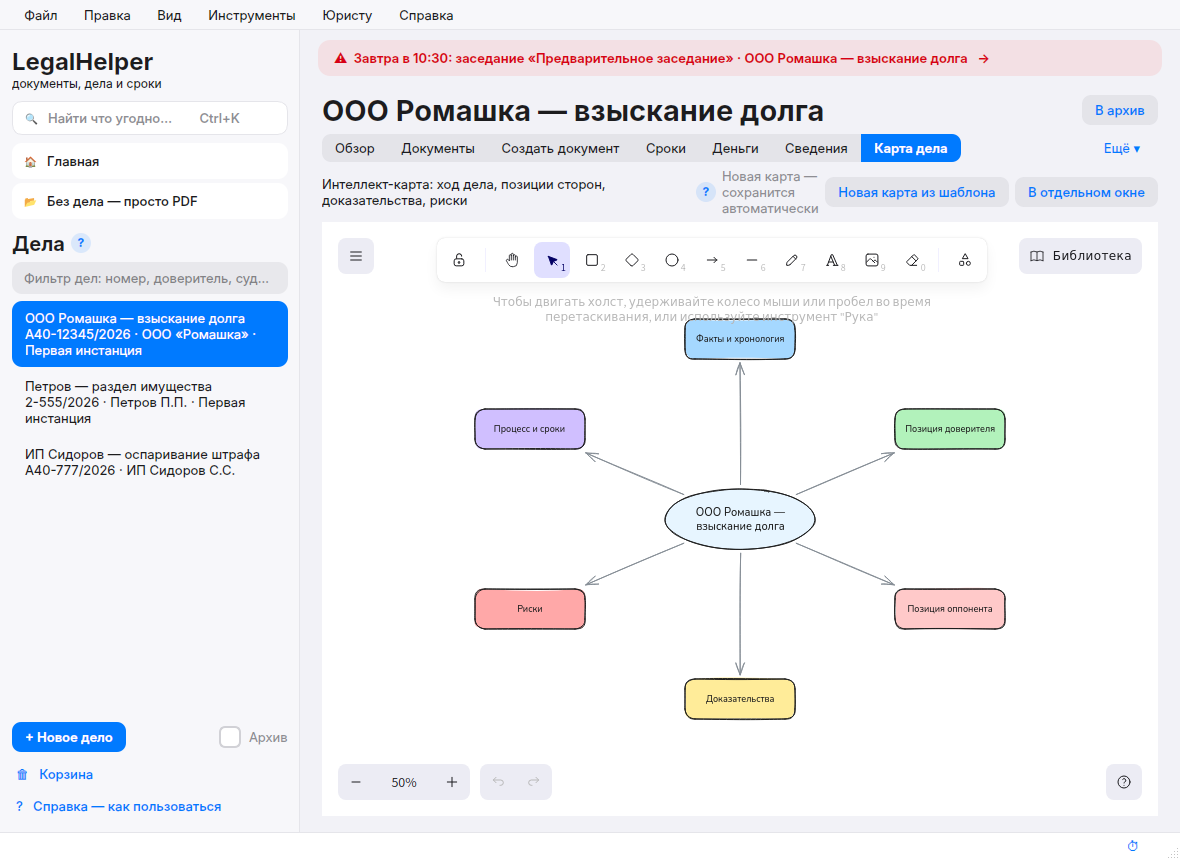
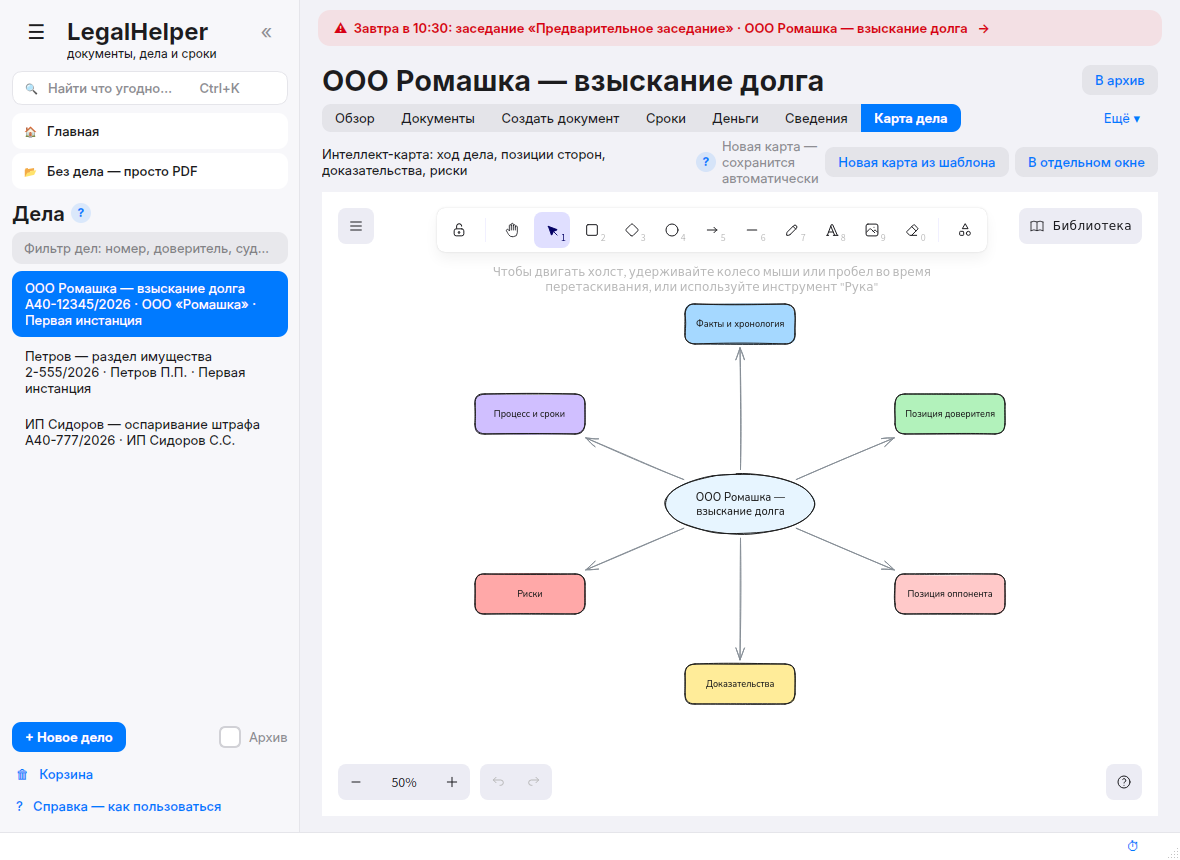
3.2: hamburger menu instead of the menu bar, tinted title bar
- The QMenuBar is hidden; its menus live in a ☰ button next to the app
  name (and in the collapsed rail). Every menu action with a shortcut
  is added to the window so shortcuts keep working without the bar.
- On Windows 11 the native caption is tinted via DwmSetWindowAttribute
  (caption, text and border colour from the theme, immersive dark mode
  for dark themes), refreshed on theme change. The frame stays native,
  so snap layouts, shadow and resizing are unchanged.
- Help, tutorial and messages refer to menu items as '☰ → Файл → …'.

Claude-Session: https://claude.ai/code/session_014Lpmwy2eSfMPczEubKa7ik

diff --git a/pdf_master.py b/pdf_master.py
@@ -42,7 +42,7 @@ import palette
 import word_editor as WE
 
 APP_NAME = "LegalHelper"
-APP_VERSION = "3.1.2"
+APP_VERSION = "3.2"
 DEV_EMAIL = "axis.juris@bk.ru"
 DEV_TELEGRAM = "axis_juris"
 CLOCK_OFFSET = 0.0          # поправка к часам компьютера по точному времени, сек (см. timecheck.py)
@@ -2053,6 +2053,8 @@ class MainWindow(QMainWindow):
         bcol.setSpacing(0)
         bcol.addWidget(brand)
         bcol.addWidget(sub)
+        bh.addWidget(self._build_app_menu_button(), 0, Qt.AlignTop)
+        bh.addSpacing(6)
         bh.addLayout(bcol, 1)
         b_fold = QToolButton()
         b_fold.setText("«")
@@ -2322,6 +2324,7 @@ class MainWindow(QMainWindow):
     def refresh_theme(self):
         """Перерисовать миниатюры (подписи номеров рисуются цветом темы)."""
         self.theme_icons()
+        self.tint_title_bar()
         if hasattr(self, "help_page"):
             self.help_page.refresh_theme()
         for i in range(self.tree.topLevelItemCount()):
@@ -2553,7 +2556,7 @@ class MainWindow(QMainWindow):
             box.setText("<b>Не удалось скачать обновление.</b>")
             box.setInformativeText(
                 "Похоже, GitHub сейчас отвечает медленно или соединение прерывается. Можно повторить или скачать "
-                "архив в браузере: сохраните его, затем «Справка → Установить обновление из архива…».")
+                "архив в браузере: сохраните его, затем «☰ → Справка → Установить обновление из архива…».")
             box.setDetailedText(err or "")
             again = box.addButton("Повторить", QMessageBox.AcceptRole)
             web = box.addButton("Скачать в браузере", QMessageBox.ActionRole)
@@ -3613,8 +3616,8 @@ class MainWindow(QMainWindow):
                 d.exec()
         else:
             QMessageBox.warning(self, APP_NAME, "Не получилось отправить дело на телефон. Проверьте, что программа "
-                                "«Яндекс Диск» установлена и вы в неё вошли («Файл → 📱 Дела на телефоне»). "
-                                "Подробности — «Справка → Журнал ошибок».")
+                                "«Яндекс Диск» установлена и вы в неё вошли («☰ → Файл → 📱 Дела на телефоне»). "
+                                "Подробности — «☰ → Справка → Журнал ошибок».")
 
     def restore_backup(self, path):
         if not self.save_all_ws():
@@ -3663,7 +3666,7 @@ class MainWindow(QMainWindow):
         body = quote(f"\n\n—\n{APP_NAME} {APP_VERSION}, {sys.platform}")
         row("✉", DEV_EMAIL, f"mailto:{DEV_EMAIL}?subject={quote(APP_NAME + ' ' + APP_VERSION)}&body={body}", DEV_EMAIL)
         row("✈", f"Telegram @{DEV_TELEGRAM}", f"https://t.me/{DEV_TELEGRAM}", f"@{DEV_TELEGRAM}")
-        hint = QLabel("Журнал ошибок для письма: «Справка → Журнал ошибок → Скопировать последние ошибки».")
+        hint = QLabel("Журнал ошибок для письма: «☰ → Справка → Журнал ошибок → Скопировать последние ошибки».")
         hint.setObjectName("hint")
         hint.setWordWrap(True)
         v.addWidget(hint)
@@ -4772,6 +4775,63 @@ class MainWindow(QMainWindow):
     def toggle_nav(self):
         self.set_sidebar(not self.side.isVisible() or self.side.maximumWidth() < 300)
 
+    def _build_app_menu_button(self):
+        """Вместо строки меню «Файл · Правка · Вид…» (вид программы из 2000-х) — одна кнопка ☰.
+        Пункты те же; их горячие клавиши работают и без видимой строки меню."""
+        mb = self.menuBar()
+        self.app_menu = QMenu(self)
+        for a in mb.actions():
+            if a.menu():
+                self.app_menu.addMenu(a.menu())
+
+        def walk(menu):
+            for a in menu.actions():
+                if a.menu():
+                    walk(a.menu())
+                elif not a.shortcut().isEmpty():
+                    self.addAction(a)               # иначе сочетания клавиш погаснут вместе со строкой меню
+        walk(self.app_menu)
+        mb.hide()
+        b = QToolButton()
+        b.setText("☰")
+        b.setObjectName("appmenu")
+        b.setCursor(Qt.PointingHandCursor)
+        b.setToolTip("Меню: файл, правка, вид, инструменты, «Юристу», справка")
+        b.setMenu(self.app_menu)
+        b.setPopupMode(QToolButton.InstantPopup)
+        self.app_menu_btn = b
+        return b
+
+    def tint_title_bar(self):
+        """Windows 11: полоса заголовка окна — цвета программы (как у Obsidian), в тёмной теме — тёмная.
+        Окно остаётся «родным»: прилипание к краям экрана, тень и меню кнопки «□» работают как обычно."""
+        if not C.IS_WIN:
+            return
+        try:
+            import ctypes
+            from ctypes import wintypes
+            hwnd = wintypes.HWND(int(self.winId()))
+            dwm = ctypes.windll.dwmapi
+
+            def setattr_(attr, value):
+                v = ctypes.c_int(value)
+                dwm.DwmSetWindowAttribute(hwnd, attr, ctypes.byref(v), ctypes.sizeof(v))
+
+            def colorref(hexcol):
+                c = QColor(hexcol)
+                return c.red() | (c.green() << 8) | (c.blue() << 16)
+            dark = T.get("name") == "dark" or QColor(T["side"]).lightness() < 128
+            setattr_(20, 1 if dark else 0)          # DWMWA_USE_IMMERSIVE_DARK_MODE
+            setattr_(35, colorref(T["side"]))       # DWMWA_CAPTION_COLOR — как левая панель
+            setattr_(36, colorref(T["text"]))       # DWMWA_TEXT_COLOR
+            setattr_(34, colorref(T["side"]))       # DWMWA_BORDER_COLOR
+        except Exception as e:
+            log_error("Цвет заголовка окна", e)
+
+    def showEvent(self, e):
+        super().showEvent(e)
+        QTimer.singleShot(0, self.tint_title_bar)
+
     def _build_rail(self):
         """Свёрнутая левая панель: узкая полоска со значками самых нужных действий."""
         rail = QWidget()
@@ -4792,6 +4852,10 @@ class MainWindow(QMainWindow):
             v.addWidget(b, 0, Qt.AlignHCenter)
             return b
         btn("»", "Развернуть левую панель (Ctrl+B)", lambda: self.set_sidebar(True))
+        mb = btn("☰", "Меню: файл, правка, вид, инструменты, справка", lambda: None)
+        mb.setMenu(self.app_menu)
+        mb.setPopupMode(QToolButton.InstantPopup)
+        mb.setStyleSheet("QToolButton::menu-indicator { image: none; width: 0; }")
         v.addSpacing(8)
         btn("🔍", "Найти что угодно (Ctrl+K)", lambda: palette.show(self))
         btn("🏠", "Главная", self.show_home)
@@ -5703,6 +5767,10 @@ QMenu::item:disabled {{ color: {t['disabled']}; }}
 QMenu::separator {{ height: 1px; background: {t['border']}; margin: 5px 10px; }}
 
 /* боковая панель — как в iPadOS */
+QToolButton#appmenu {{ border: none; border-radius: 8px; padding: 2px 8px; font-size: 15pt; color: {t['text']};
+    background: transparent; }}
+QToolButton#appmenu:hover, QToolButton#appmenu:pressed {{ background: {t['side_hover']}; }}
+QToolButton#appmenu::menu-indicator {{ image: none; width: 0; }}
 QToolButton#sidefold {{ border: none; border-radius: 8px; padding: 2px 8px; font-size: 15pt; color: {t['muted']};
     background: transparent; }}
 QToolButton#sidefold:hover {{ background: {t['side_hover']}; color: {t['text']}; }}

diff --git a/help_content.py b/help_content.py
@@ -34,7 +34,7 @@ HOWTO = {
     "anonymize": (["Откройте документ.", "«Инструменты ▾ → Материалы дела → Обезличить (152-ФЗ)».",
                    "Отметьте, что скрыть: ФИО, паспорта, СНИЛС, ИНН, адреса, телефоны, счета — или впишите свои слова.",
                    "Нажмите «ОК». Найденное закрашивается чёрным <b>безвозвратно</b> — сохраните результат "
-                   "отдельным файлом («Файл → Сохранить как…»)."],
+                   "отдельным файлом («☰ → Файл → Сохранить как…»)."],
                   "Закрашенный текст удаляется из файла совсем — его нельзя «проявить» или скопировать."),
     "compare_ed": (["«Инструменты ▾ → Материалы дела → Сравнить редакции».",
                     "Выберите старую и новую версию (PDF, Word или текст).",
@@ -210,10 +210,10 @@ FAQ = [
      "Delete убирает документ из дела (файл остаётся на диске). Чтобы удалить и сам файл — правый щелчок → "
      "«Удалить файл с диска…»: он уйдёт в Корзину Windows, откуда его тоже можно вернуть."),
     ("Пропало дело или данные!",
-     "Не волнуйтесь: программа каждый день делает резервную копию. «Файл → 🛟 Резервные копии…» — выберите "
+     "Не волнуйтесь: программа каждый день делает резервную копию. «☰ → Файл → 🛟 Резервные копии…» — выберите "
      "дату и нажмите «Восстановить выбранную…»."),
     ("Как перенести дела на другой компьютер?",
-     "Скопируйте папку дела (флешка, облако). На другом компьютере: «Файл → 📂 Открыть дело из папки…»."),
+     "Скопируйте папку дела (флешка, облако). На другом компьютере: «☰ → Файл → 📂 Открыть дело из папки…»."),
     ("Как обновить программу?",
      "Программа сама проверяет обновления при запуске и показывает плашку. «Что нового» — подробный список "
      "изменений, «Установить сейчас» — обновить. Дела и настройки сохраняются."),
@@ -223,11 +223,11 @@ FAQ = [
     ("Как установить программу на другой компьютер?",
      "Откройте сайт программы legalhelper.github.io (или страницу на GitHub), нажмите большую синюю кнопку "
      "«Скачать LegalHelper», распакуйте архив (правой кнопкой → «Извлечь все…») и дважды щёлкните «УСТАНОВИТЬ». "
-     "Дела перенесите папкой дела: «Файл → 📂 Открыть дело из папки…»."),
+     "Дела перенесите папкой дела: «☰ → Файл → 📂 Открыть дело из папки…»."),
     ("Как пройти обучение ещё раз?",
-     "«Справка → 🎓 Обучение» (или в меню «Справка» вверху)."),
+     "кнопка ☰ вверху слева → «Справка» → «🎓 Обучение»."),
     ("Кому написать, если что-то не работает?",
-     "Разработчику: почта axis.juris@bk.ru, Telegram @axis_juris. «Справка → ✉ Связаться с разработчиком»."),
+     "Разработчику: почта axis.juris@bk.ru, Telegram @axis_juris. «☰ → Справка → ✉ Связаться с разработчиком»."),
 ]
 
 GLOSSARY = [

diff --git a/tutorial.py b/tutorial.py
@@ -5,7 +5,7 @@
 Работает на «Учебном деле» с примерами файлов (его создаёт обучение, настоящие дела не трогаются; в конце его
 можно удалить вместе с папкой). Шаг засчитывается сам, когда действие выполнено (например, страница
 удалена или документ добавлен в PDF дела); у каждого шага есть «Пропустить шаг», у пояснений — «Далее».
-Запуск: при первом старте программа предлагает обучение; повторить — «Справка → 🎓 Обучение».
+Запуск: при первом старте программа предлагает обучение; повторить — «☰ → Справка → 🎓 Обучение».
 
 Устройство: поверх окна — полупрозрачная «шторка» с вырезом вокруг нужной кнопки и стрелкой к ней (она
 пропускает щелчки мыши насквозь), рядом — окошко-подсказка с текстом и кнопками. Если открыт редактор
@@ -561,7 +561,7 @@ class Tutor:
 
     def quit(self):
         if QMessageBox.question(self.bub if _alive(self.bub) else self.m, "Обучение", "Закончить обучение? Его можно пройти снова: "
-                                "«Справка → 🎓 Обучение».") != QMessageBox.Yes:
+                                "«☰ → Справка → 🎓 Обучение».") != QMessageBox.Yes:
             return
         self.finish(delete=None)
 
@@ -713,7 +713,7 @@ def offer(main):
     box.setInformativeText("Минут десять: программа стрелками покажет, как собирать документы дела в один PDF, "
                            "добавлять файлы, удалять и поворачивать страницы, вписывать текст и сохранять. "
                            "Всё — на учебном деле, ваши дела не пострадают.\n\nЕго можно пройти в любой момент: "
-                           "«Справка → 🎓 Обучение».")
+                           "«☰ → Справка → 🎓 Обучение».")
     go = box.addButton("Начать обучение", QMessageBox.AcceptRole)
     box.addButton("Не сейчас", QMessageBox.RejectRole)
     box.exec()

diff --git a/legal_ui.py b/legal_ui.py
@@ -1450,7 +1450,7 @@ class PhoneSetupDialog(QDialog):
              "на документ — он откроется. Увеличить — двумя пальцами, как фото.</li></ol>")
         # 4 — какие дела
         lv = page("Шаг 3. Какие дела отправлять",
-                  "Выберите, какие дела будут на телефоне. Изменить можно в любой момент: «Файл → 📱 Дела на "
+                  "Выберите, какие дела будут на телефоне. Изменить можно в любой момент: «☰ → Файл → 📱 Дела на "
                   "телефоне».")
         from PySide6.QtWidgets import QRadioButton
         self.r_all = QRadioButton("Все дела в работе (кроме архива) — обновляются сами")
@@ -4513,7 +4513,7 @@ def collect_case_files(main, cid):
                             f"Скопировать все файлы дела «{c['title']}» в его папку?\n\n{folder}\n\n"
                             "Оригиналы останутся на месте, а дело будет работать с копиями в папке. После этого "
                             "папку можно целиком перенести на другой компьютер (флешкой, облаком) и открыть там: "
-                            "«Файл → Открыть дело из папки…».") != QMessageBox.Yes:
+                            "«☰ → Файл → Открыть дело из папки…».") != QMessageBox.Yes:
         return
     try:
         copied, missing = CF.collect_files(db(), cid)

diff --git a/CHANGELOG.md b/CHANGELOG.md
@@ -1,5 +1,10 @@
 # История версий
 
+## 3.2 — современная шапка окна
+- Убрана строка меню «Файл · Правка · Вид · Инструменты · Юристу · Справка» — из-за неё программа выглядела как из 2000-х. Все её пункты теперь в одной кнопке ☰ вверху слева, рядом с названием программы. Она же есть в свёрнутой левой панели. Горячие клавиши (Ctrl+S, Ctrl+O, Ctrl+K, F1, Ctrl+1…6 и другие) работают как раньше.
+- В Windows 11 полоса заголовка окна (с названием и кнопками «—  □  ✕») теперь того же цвета, что и левая панель программы, а в тёмной теме — тёмная. Шапка сливается с программой, как в Obsidian. Окно остаётся обычным окном Windows: прилипание к краям экрана, тень и меню раскладок при наведении на «□» работают как прежде. В Windows 10 заголовок остаётся системным.
+- В справке и подсказках пути к пунктам меню записаны через ☰: например, «☰ → Файл → Резервные копии».
+
 ## 3.1.2 — опись ф. 107: длинные названия целиком
 - Исправлено: в описи вложения ф. 107 длинное название документа обрезалось многоточием («Исковое заявление о взыскании…»). Теперь длинное название переносится на следующие строки бланка обычным читаемым шрифтом, как в описях с сайта Почты России. Ничего не обрезается, даже очень длинное название на несколько строк.
 - Номер, количество и объявленная ценность стоят в первой строке пункта. Если пункт не помещается на лист целиком, он переносится на следующий лист. Нумерация сквозная, общий итог — на последнем листе.
